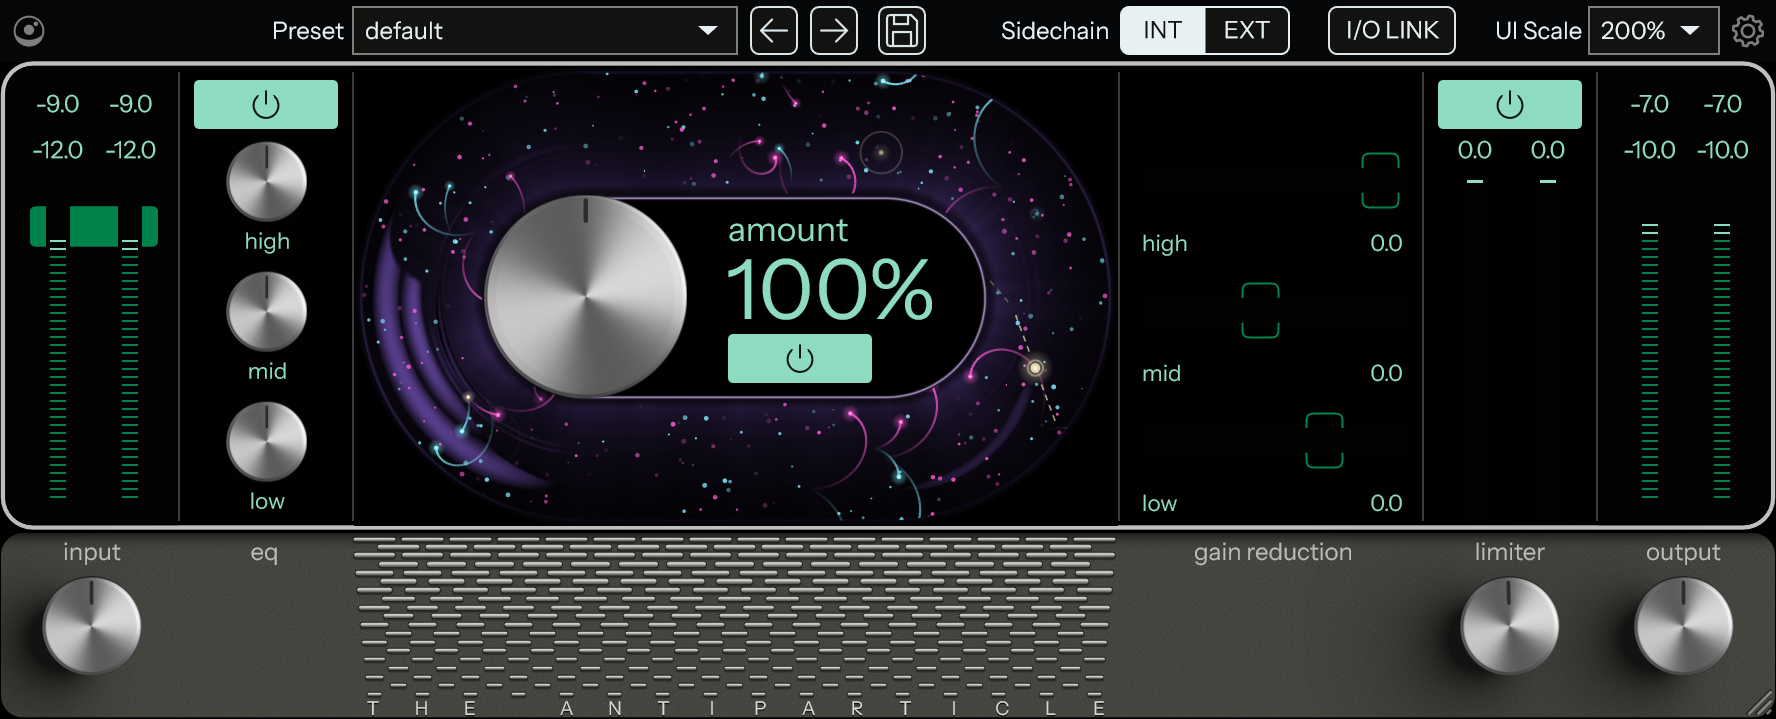
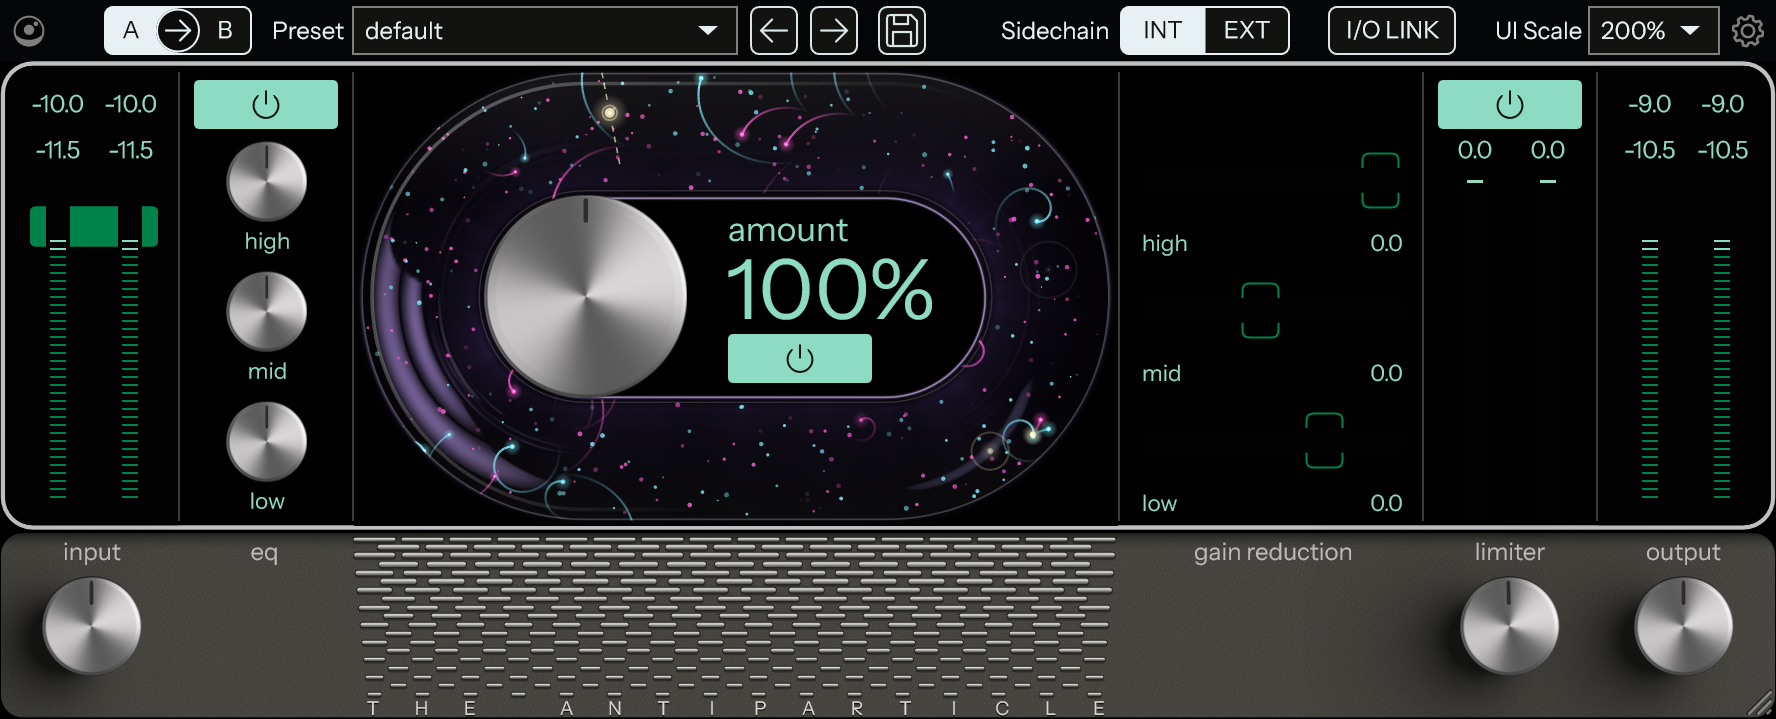
README overhaul: skimmable front page, developer notes moved to docs/
New hero (both editors), a features list with the shared top bar and the
particle styles, a quick start, usage and a short "how close" table. Build
details, installers, layout, null tests and versioning moved to
docs/DEVELOPING.md. Screenshots retaken from the current editors.

diff --git a/README.md b/README.md
@@ -7,123 +7,95 @@
 
 <p align="center">
   <a href="https://github.com/MaymiPR/OrrerySuite/releases/latest"><img alt="Latest release" src="https://img.shields.io/github/v/release/MaymiPR/OrrerySuite?color=b07cff&label=release"></a>
-  <img alt="Formats" src="https://img.shields.io/badge/formats-VST3%20%7C%20CLAP%20%7C%20AU-25202f">
-  <img alt="Platforms" src="https://img.shields.io/badge/platforms-Windows%20%7C%20macOS%20%7C%20Linux-25202f">
+  <img alt="Platforms: Windows, macOS, Linux" src="https://img.shields.io/badge/platforms-Windows%20%7C%20macOS%20%7C%20Linux-25202f">
   <a href="LICENSE"><img alt="License: AGPL v3" src="https://img.shields.io/badge/license-AGPL--3.0-9b6cff"></a>
 </p>
 
 # Orrery Suite
 
-Open-source mix-bus processors (**VST3**, **CLAP**, **AU**) for Windows, macOS and Linux, built with JUCE. Each Orrery
-plug-in is an independent, from-scratch recreation of a well-known mixing tool: its controls and look studied, its sound
-measured black-box, and the result null-tested against the original, with the numbers published as they are.
+Free, open-source recreations of Cradle's mix-bus plug-ins, null-tested against the originals. VST3, CLAP and AU for
+Windows, macOS and Linux.
 
-An orrery is a clockwork model of the heavens that reproduces their motions. Each Orrery plug-in is a working model
-of a well-known original in the same spirit.
+<p align="center">
+  <img src="docs/screenshots/hero.png" alt="The Antiparticle (left) and Scorpius (right), side by side" width="100%">
+</p>
+
+| Plug-in | Recreates | What it does |
+|---|---|---|
+| **[The Antiparticle](plugins/TheAntiparticle)** | Cradle The God Particle | Mix-bus EQ, multiband "character" saturation and compression, look-ahead limiter |
+| **[Scorpius](plugins/Scorpius)** | Cradle Orion | Drum-bus drive, harmonics, compression, lift, harmonic EQ and four parallel paths |
 
 > Orrery Suite is an independent project. It is not affiliated with, endorsed by or sponsored by Cradle or Jaycen
-> Joshua. Other companies' product names appear only to describe what a Orrery plug-in is modelled on and belong to
-> their owners. No code of theirs is included: the sound and the look were measured from the outside.
+> Joshua. Product names are theirs and only describe what each plug-in is modelled on. No code, models or data of
+> theirs is included: the sound and look were measured by testing the originals.
 
-## Install
+## Features
 
-Download from the [Releases](https://github.com/MaymiPR/OrrerySuite/releases)
-page. One installer per system holds every plug-in in the suite:
+- **Null-tested sound.** Each plug-in is measured against its original with the same audio, and every result is
+  published, good or bad ([How close](#how-close)).
+- **The originals' controls and editors**: same layout, knobs, meters, factory presets and visualisers, measured from
+  the originals.
+- **A few additions**, in the same top bar on both plug-ins: A / B compare, an external side-chain (INT / EXT) and
+  **I/O LINK**, which turns the output down as you turn the input up so you can drive harder at the same level.
 
-- **Windows:** `OrrerySuite-<version>-Windows-Setup.exe` installs the VST3 and
-  the CLAP to `C:\Program Files\Common Files\` (in `Orrery Suite` folders) and,
-  if you choose, the standalone apps (Start menu), with an uninstaller.
-- **macOS** (universal, 10.13 or later): `OrrerySuite-<version>-macOS.pkg`
-  installs the AU, the VST3 and the CLAP (you can choose which).
-- **Linux** (x86-64, glibc 2.35 or later): `OrrerySuite-<version>-Linux.tar.gz`
-  holds the VST3 and the CLAP; run `sh install-linux.sh` to copy them to
-  `~/.vst3` and `~/.clap` (see its `INSTALL.txt`).
+  <img src="docs/screenshots/top-bar.png" alt="The shared top bar: A / B compare, preset menu, side-chain INT / EXT, I/O LINK, UI scale" width="100%">
 
-Then rescan plugins in your DAW.
+- **Particle visualisers that follow your music**, in each original's style or ours, moving with the project's tempo.
 
-**Security warnings.** Orrery Suite isn't code-signed or notarized (that needs
-paid certificates), so the first time you open it:
-- Windows SmartScreen: *More info* → *Run anyway*.
-- macOS 15 and later: open it once, then System Settings → Privacy & Security
-  → *Open Anyway*. On earlier macOS: right-click → *Open*.
+  <img src="docs/screenshots/particle-styles.png" alt="Particle styles. Top: The Antiparticle's antiparticle style (left) and God particle style (right). Bottom: Scorpius's own style, then the Orion style" width="100%">
 
-Each release lists the files' SHA-256 checksums in `SHA256SUMS.txt`, so you can
-check that a download is the published one.
+- **Resizable** from 50 to 200 %. Oversampling up to 8x in The Antiparticle.
 
-## Plug-ins
+## Quick start
 
-| Orrery plug-in | Modelled on | Status |
+1. Download the installer for your system from the [latest release](https://github.com/MaymiPR/OrrerySuite/releases/latest).
+   One installer holds every plug-in:
+
+   | System | File | Installs |
+   |---|---|---|
+   | Windows | `OrrerySuite-<version>-Windows-Setup.exe` | VST3 and CLAP to `C:\Program Files\Common Files\`, standalone apps if you choose, with an uninstaller |
+   | macOS 10.13+ (universal) | `OrrerySuite-<version>-macOS.pkg` | AU, VST3 and CLAP (you choose which) |
+   | Linux x86-64 (glibc 2.35+) | `OrrerySuite-<version>-Linux.tar.gz` | VST3 and CLAP: run `sh install-linux.sh` to copy them to `~/.vst3` and `~/.clap` |
+
+2. Run it, then rescan plug-ins in your DAW.
+
+The installers are not code-signed (that needs paid certificates), so the first launch shows a warning:
+
+- **Windows SmartScreen:** *More info*, then *Run anyway*.
+- **macOS 15 and later:** open it once, then System Settings > Privacy & Security > *Open Anyway*. Earlier macOS:
+  right-click, then *Open*.
+
+Each release lists SHA-256 checksums in `SHA256SUMS.txt`, so you can check a download.
+
+## Usage
+
+Both plug-ins work the same way:
+
+- **Knobs:** drag up or down. Shift drags finely, Alt-click resets, double-click types a value.
+- **Presets:** pick one from the menu or step with the arrows; the disk button saves your own.
+- **A / B:** click A or B to switch between two complete settings; the arrow copies the active one over the other.
+- **Settings** (gear): particle animation on or off and its style. The Antiparticle also has oversampling and the
+  meter mode (RMS or LUFS).
+
+Each plug-in's page covers its controls in detail: [The Antiparticle](plugins/TheAntiparticle#using-it),
+[Scorpius](plugins/Scorpius#using-it).
+
+## How close
+
+The residual is the difference between the original's output and ours, in dB below the original's level. Lower is
+better: -60 dB is inaudible in practice.
+
+| | The Antiparticle | Scorpius |
 |---|---|---|
-| **[The Antiparticle](plugins/TheAntiparticle)** | Cradle The God Particle: mix-bus EQ, multiband character and limiter | released: close, not a null on every material (see below) |
-| **[Scorpius](plugins/Scorpius)** | Cradle Orion: drum-bus drive, harmonics, compression, lift, harmonic EQ and parallels | released in 1.1.0: close on everything but the drive (see below) |
+| Mastered track, default settings | -44.3 dB | -22.4 dB |
+| Synthetic music / drums, default settings | -62 to -74 dB | -26.6 dB (drums) |
+| Best parts | EQ, crossover, signal path: -79 to -87 dB | EQ, sub, rate converters: -50 to -70 dB |
+| Weakest part | the character section's high band on loud, bright material (about -40 dB) | the drive on loud, dense material (the reason for the default's -22 to -27 dB) |
 
-## The Antiparticle
+Every case is listed in each plug-in's NULLTESTS.md ([The Antiparticle](plugins/TheAntiparticle/NULLTESTS.md),
+[Scorpius](plugins/Scorpius/NULLTESTS.md)), and how the originals were measured in its MEASUREMENTS.md.
 
-<p align="center">
-  <img src="docs/screenshots/the-antiparticle@2x.png" alt="The Antiparticle" width="80%">
-</p>
-
-The God Particle's chain, rebuilt: input gain, a three-band EQ, the "character" section (a 3-band linear-phase split,
-each band a stereo-linked parallel compressor and a sine shaper, amount 0 – 200 %), a look-ahead limiter with a
-−0.1 dBFS ceiling, output gain. Oversampling 1 – 8x, an external side-chain for the character section's detectors, the
-original's editor, meters and particle visualiser. Two additions of ours: an **I/O LINK** switch (the output follows
-the input gain inverted, so driving the chain harder doesn't change the level) and an "antiparticle" particle style.
-More: [plugins/TheAntiparticle](plugins/TheAntiparticle).
-
-### Null test (honest numbers)
-
-Residual of The Antiparticle against the original, in dB re the original's output (lower is better; −60 dB is
-inaudible in practice):
-
-- **A mastered track** (future house, about −10 dBFS RMS) at the default settings: **−44.3 dB**; the limiter alone
-  −60.8 dB, the character section alone −46.1 dB. Character at 125 / 150 / 175 / 200 %: −44.0 / −42.5 / −40.9 / −39.4 dB.
-- **Synthetic music** −62 to −74 dB at the defaults; the path, EQ and crossover −79 to −87 dB; amount 0 % −135 dB.
-- **Stress suite:** 163 cases over the settings, levels, signals, automation, sample rates and block sizes: **median
-  −63.3 dB**, worst −40.4 dB.
-- **Weakest:** loud, dense, bright material through the character section's high band (pink noise at −6 dBFS RMS
-  −40 dB). Its steady gain curve matches to 0.02 dB; what is left is how fast its detector moves.
-- **How:** the crossover filters were identified exactly from the original's impulse responses; the limiter's
-  look-ahead planning was identified with probe signals (its inter-sample interpolator fitted per sample rate); the
-  character section's laws were fitted against the original on program material and probes. The meters, knobs and
-  particles were filmed from the original's editor and matched frame by frame.
-
-Every case: [NULLTESTS.md](plugins/TheAntiparticle/NULLTESTS.md). How it was measured:
-[MEASUREMENTS.md](plugins/TheAntiparticle/MEASUREMENTS.md). The editor and controls:
-[RESEARCH.md](plugins/TheAntiparticle/RESEARCH.md).
-
-## Scorpius
-
-<p align="center">
-  <img src="docs/screenshots/scorpius@2x.png" alt="Scorpius" width="80%">
-</p>
-
-Orion's drum-bus chain, rebuilt: input gain, drive (three colours, optional hi-pass), harmonics at 50 or 80 Hz,
-compression (two modes), lift, a five-band harmonic EQ, then four parallels mixed in (sub, low, loud, grit) and output
-gain. The original's nine factory presets, its A / B compare, editor, meters and particle stripe. Ours on top: an
-external side-chain for the compressor, **I/O LINK**, and a "Scorpius" particle style. More:
-[plugins/Scorpius](plugins/Scorpius).
-
-### Null test (honest numbers)
-
-- **The fixed parts are close to exact:** the harmonic EQ, the sub and the rate converters (the original's own filters,
-  identified from its responses) null at −50 to −70 dB, everything off at 44.1 to 192 kHz at −51 to −110 dB.
-- **Everything but the drive** together: −44.6 to −51.0 dB (the default preset with the drive off). Compression
-  −41 to −60 dB, harmonics −50 to −71 dB, lift −43.5 to −51.5 dB.
-- **The whole default preset:** −26.6 dB on loud drums, −22.4 dB on a mastered track (−34.6 / −31.2 dB 10 to 12 dB
-  lower). The limit is the drive: the original runs neural captures there, Scorpius learns its own model
-  from the original's input and output, and loud, dense material is where they part.
-- **Automation** follows the original's control rate (128-sample chunks, its parameter ramps and switches): an amount
-  jump nulls at −60 dB, as well as the setting held still.
-- **How:** the original was measured black-box (renders through it offline); the nonlinear modules are small neural
-  networks trained on its input and output (on a GPU), the linear parts fitted or identified exactly.
-
-Every case: [NULLTESTS.md](plugins/Scorpius/NULLTESTS.md). How it was measured:
-[MEASUREMENTS.md](plugins/Scorpius/MEASUREMENTS.md). The editor and controls:
-[RESEARCH.md](plugins/Scorpius/RESEARCH.md).
-
-## Building
-
-CMake 3.22+ and a C++17 compiler. JUCE 8 and clap-juce-extensions are fetched by CMake.
+## Building from source
 
 ```bash
 cmake -B build -DAP_TOOLS=OFF
@@ -131,33 +103,14 @@ cmake --build build --config Release
 ctest --test-dir build -C Release --output-on-failure
 ```
 
-That builds every plug-in in every format for the platform (VST3, CLAP and standalone; AU on macOS) and the unit tests.
-Without `-DAP_TOOLS=OFF` the measurement tools are built too: hosts for the reference plug-ins (`tools/`) and each
-plug-in's fitting helpers. The Windows installer is made with Inno Setup 6:
+You need CMake 3.22+ and a C++17 compiler; JUCE is fetched by CMake. Linux packages, installers, the measurement tools
+and the repository layout are in [docs/DEVELOPING.md](docs/DEVELOPING.md).
 
-```bash
-pwsh packaging/make_iss_include.ps1 build
-iscc /DAppVersion=1.1.0 packaging/OrrerySuite.iss
-```
+## Contributing
 
-## Repository layout
-
-| Path | What it holds |
-|---|---|
-| `plugins/<Name>/` | one plug-in: `Source/`, `resources/`, `tests/`, its null-test harness (`nulltest/`, Python, needs the original installed), its fitting tools and its documents |
-| `tools/` | hosts for reference plug-ins shared by the suite: offline renders (RefRender), editor films and screenshots (RefCapture), parameter lists (ParamDump) |
-| `packaging/` | the installers; `plugins.txt` lists the plug-ins they hold |
-| `docs/` | branding and screenshots |
-| `.github/workflows/release.yml` | builds, tests and validates every plug-in on all three systems (pluginval at strictness 10, auval on macOS), makes the installers and, on a `v*` tag, publishes a release with the notes from [CHANGELOG.md](CHANGELOG.md) |
-
-Reference renders, measurement data and anything taken from the original plug-ins stay out of the repository (see
-`.gitignore`); only the write-ups are published.
-
-## Versions
-
-1.0.0 is the first release, with The Antiparticle; 1.1.0 adds Scorpius. Each new plug-in raises the middle number (the
-next one 1.2.0), and fixes and small updates in between raise the last (1.1.1, 1.1.2 ...). Every plug-in carries the
-suite's version; [CHANGELOG.md](CHANGELOG.md) lists what changed in each.
+Bug reports and pull requests are welcome on GitHub. If a change affects the sound, run the plug-in's null tests
+(they need the original installed; see [docs/DEVELOPING.md](docs/DEVELOPING.md#null-tests)). What changed in each
+release: [CHANGELOG.md](CHANGELOG.md).
 
 ## License
 

diff --git a/docs/DEVELOPING.md b/docs/DEVELOPING.md
@@ -1,0 +1,69 @@
+# Developing Orrery Suite
+
+How to build the plug-ins, make the installers and run the measurement tools. For what the plug-ins are, see the
+[README](../README.md).
+
+## Build
+
+CMake 3.22 or later and a C++17 compiler. JUCE 8 and clap-juce-extensions are fetched by CMake.
+
+```bash
+cmake -B build -DAP_TOOLS=OFF
+cmake --build build --config Release
+ctest --test-dir build -C Release --output-on-failure
+```
+
+This builds every plug-in in every format for the platform (VST3, CLAP and standalone; AU on macOS) and the unit
+tests. The artefacts land in `build/<Target>_artefacts/Release/`.
+
+- **Linux** needs JUCE's development packages first (Ubuntu / Debian):
+
+  ```bash
+  sudo apt-get install -y --no-install-recommends ninja-build libasound2-dev libjack-jackd2-dev libfreetype6-dev \
+    libfontconfig1-dev libx11-dev libxcomposite-dev libxcursor-dev libxext-dev libxinerama-dev libxrandr-dev \
+    libxrender-dev libglu1-mesa-dev mesa-common-dev
+  ```
+
+- **macOS universal binaries:** add `-G Xcode -DCMAKE_OSX_ARCHITECTURES="arm64;x86_64" -DCMAKE_OSX_DEPLOYMENT_TARGET=10.13`.
+- **Without CLAP:** add `-DAP_CLAP=OFF`.
+- **Measurement tools:** leave out `-DAP_TOOLS=OFF` to also build the hosts for the reference plug-ins (`tools/`) and
+  each plug-in's offline renderer, editor snapshot and fitting helpers.
+
+## Windows installer
+
+Made with Inno Setup 6:
+
+```bash
+pwsh packaging/make_iss_include.ps1 build
+iscc /DAppVersion=1.1.0 packaging/OrrerySuite.iss
+```
+
+The installer lands in `dist/`. Add `/DTestRoot=<folder>` to make a test installer that installs everything under that
+folder without administrator rights.
+
+## Repository layout
+
+| Path | What it holds |
+|---|---|
+| `plugins/<Name>/` | one plug-in: `Source/`, `resources/`, `tests/`, its null-test harness (`nulltest/`, Python, needs the original installed), its tools and its documents (RESEARCH, MEASUREMENTS, NULLTESTS) |
+| `shared/` | code and resources shared by the plug-ins: the UI library, the font |
+| `tools/` | hosts for the reference plug-ins: offline renders (RefRender), editor films and screenshots (RefCapture), parameter lists (ParamDump) |
+| `packaging/` | the installers; `plugins.txt` lists the plug-ins they hold |
+| `docs/` | branding, screenshots and this file |
+| `.github/workflows/release.yml` | builds, tests and validates every plug-in on all three systems (pluginval at strictness 10, auval on macOS), makes the installers and, on a `v*` tag, publishes a release with the notes from [CHANGELOG.md](../CHANGELOG.md) |
+
+Reference renders, measurement data and anything taken from the original plug-ins stay out of the repository (see
+`.gitignore`); only the write-ups are published.
+
+## Null tests
+
+Each plug-in's `nulltest/` folder renders the same signals through the original and through ours and reports the
+residual. It needs Windows, Python 3 with numpy and scipy, the original plug-in installed, and the tools built
+(`-DAP_TOOLS=ON`). The entry points are listed in each plug-in's README; the results are in its NULLTESTS.md.
+
+## Versions
+
+One version for the whole suite (`project(... VERSION ...)` in `CMakeLists.txt`). Each new plug-in raises the middle
+number (1.1.0 added Scorpius), fixes and small updates raise the last. A release is: raise the version, add a
+`## x.y.z` section to [CHANGELOG.md](../CHANGELOG.md), run the release workflow by hand as a test, then push the tag
+`vx.y.z`.
